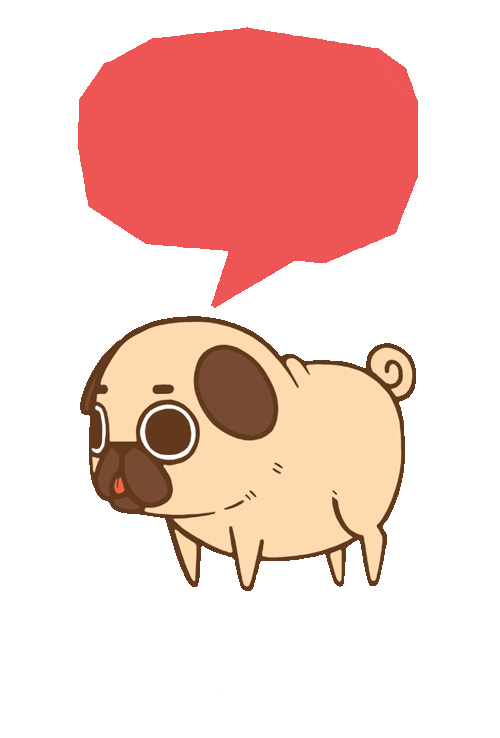
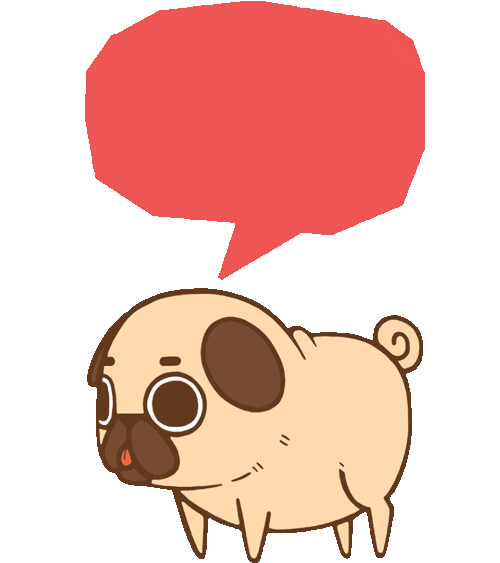
Portfolio Update: Landing Page Redesign w/animations

diff --git a/css/index.css b/css/index.css
@@ -13,6 +13,7 @@ body {
   background-size: 400px;
   height: 969px;
   padding: 0;
+  overflow: hidden;
 }
 
 .noselect {
@@ -52,6 +53,28 @@ input, label {
   padding: 100px 0 20px 0;
 }
 
+/* ANIMATION ANIMATION ANIMATION */
+/* ANIMATION ANIMATION ANIMATION */
+/* ANIMATION ANIMATION ANIMATION */
+
+@keyframes txtFadein {
+  from {
+    opacity: 0;
+  }
+  to {
+    opacity: 1;
+  }
+}
+
+@keyframes backgroundFadein {
+  from {
+    opacity: 0;
+  }
+  to {
+    opacity: 0.6;
+  }
+}
+
 /* NAVIGATION */
 /* NAVIGATION */
 /* NAVIGATION */
@@ -69,6 +92,13 @@ input, label {
   background: #FFFFFF;
   position: fixed;
   z-index: 1030;
+  display: ;
+  opacity: 0;
+  transition: opacity 1s;
+}
+
+#nav.fadein {
+  opacity: 1;
 }
 
 #brand {
@@ -135,63 +165,66 @@ input, label {
   display: flex;
   margin: 0;
   padding: 0;
+  overflow: hidden;
+  opacity: 1;
+  transition: opacity 0.3s;
+}
+
+#landingPage.fade {
+  opacity: 0;
 }
 
 #landingPageBackground {
   width: 100%;
   height: 100%;
-  display: block;
   position: absolute;
-  background: url("../images/landing page/background2.jpg");
+  background: url("../images/landing page/bg8.jpg");
   background-size: cover;
-  background-position: 400px -10%;
-  opacity: 0.6;
+  background-position: center;
+  opacity: 0.9;
 }
 
 #landingPageHeaderGroup {
-  position: static;
   margin: auto;
-  width: 600px;
-  height: 600px;
+  height: 40rem;
+  animation: txtFadein 1s;
+  text-shadow: -3px 3px 5px rgba(0,0,0,0.2);
+  color: snow;
+  opacity: 0.7;
+  text-align: center;
 }
 
-#michaelJap {
-  font-size: 5rem;
-  color: #262730;
-  position: absolute;
-  top: 263px;
-  left: 18.5%;
-  font-weight: 700;
-}
-
-#michaelEng {
+#michaelJap, #chambersJap {
   font-size: 7rem;
-  color: #262730;
+  font-weight: 700;
+  line-height: 7rem;
+}
+
+#michaelEng, #chambersEng {
+  font-size: 9rem;
   font-family: "EB Garamond";
   font-weight: 500;
-  position: absolute;
-  top: 325px;
-  left: 24.5%;
+  line-height: 6rem;
 }
 
-#chambersEng {
-  font-size: 7rem;
-  color: #262730;
-  font-family: "EB Garamond";
-  font-weight: 500;
+#landingPage button {
   position: absolute;
-  top: 425px;
-  left: 26.5%;
-}
-
-#chambersJap {
-  font-size: 5rem;
-  color: #262730;
-  font-weight: 300;
-  position: absolute;
-  top: 540px;
-  left: 21%;
-  font-weight: 700;
+  bottom: 2%;
+  right: 0;
+  left: 0;
+  width: 150px;
+  height: 50px;
+  opacity: 0.7;
+  z-index: 2;
+  background: #333;
+  border: solid;
+  border-radius: 0.5rem;
+  color: snow;
+  font-size: 25px;
+  display: flex;
+  justify-content: center;
+  box-shadow: 0 1px 2px rgba(0,0,0,0.5);
+  text-shadow: 0 1px 2px rgba(0,0,0,0.5);
 }
 
 /* ABOUT ME */
@@ -199,10 +232,15 @@ input, label {
 /* ABOUT ME */
 
 #aboutMeSection {
-  height: 940px;
+  height: 970px;
   position: relative;
   background-size: cover;
   background-position: 275px -100px;
+  opacity: 0;
+  transition: opacity 1s;
+}
+
+#aboutMeSection.fadein {
   opacity: 1;
 }
 
@@ -249,9 +287,10 @@ input, label {
 
 #aboutPug {
   position: absolute;
-  top: 65.2%;
+  bottom: 0;
   left: 3%;
-  z-index: -2;
+  z-index: -1;
+  opacity: 0.7;
 }
 
 #aboutPug img {
@@ -558,7 +597,7 @@ input, label {
 
 #contactPug2 {
   position: absolute;
-  top: 86.6%;
+  bottom: 0;
   left: 5%;
   opacity: 0.7;
   box-shadow: 0 0 0 rgba(0,0,0,);
@@ -597,54 +636,17 @@ input, label {
 /* LARGE LARGE LARGE LARGE LARGE LARGE LARGE */
 
 @media (max-width: 1200px) {
-  #landingPageBackground {
-    background: url("../images/landing page/background2.jpg");
-    background-size: 2750px;
-    background-position: 49.1%;
-    opacity: 0.6;
-    height: 100vh;
-    display: flex;
-    margin: 0;
-    padding: 0;
+
+  #michaelJap, #chambersJap {
+    font-size: 7rem;
+    font-weight: 300;
+    line-height: 6rem;
   }
 
-  #michaelJap {
+  #michaelEng, #chambersEng {
+    font-size: 8rem;
     font-weight: 300;
-    position: relative;
-    text-align: center;
-    top: 60px;
-    left: 0;
-    right: 0;
-  }
-
-  #michaelEng {
-    font-size: 5.5rem;
-    font-weight: 300;
-    position: relative;
-    text-align: center;
-    top: 30px;
-    left: 0;
-    right: 0;
-  }
-
-  #chambersEng {
-    font-size: 5.5rem;
-    font-weight: 300;
-    position: relative;
-    text-align: center;
-    top: -7px;
-    left: 0;
-    right: 0;
-  }
-
-  #chambersJap {
-    font-size: 4.5rem;
-    font-weight: 300;
-    position: relative;
-    text-align: center;
-    top: -36px;
-    left: 0;
-    right: 0;
+    line-height: 6rem;
   }
 
   #aboutMeContent {

diff --git a/js/index.js b/js/index.js
@@ -1,6 +1,9 @@
 var navLinks = document.getElementsByClassName("navLink");
 var navLinkList = document.getElementById("navLinkList");
 var navIcons = document.getElementById("navLinkList").getElementsByClassName("navIconItem");
+var btnStart = document.getElementById("btnGetStarted");
+var landingPage = document.getElementById("landingPage");
+var nav = document.getElementById("nav");
 var navLinkVisability = false;
 var viewportWidth = window.innerWidth || document.documentElement.clientWidth;
 var timeout = true;
@@ -67,3 +70,17 @@ window.addEventListener('resize', function() {
     setIdVisability(navLinkList, "block");
   }
 }, false);
+
+btnStart.onclick = function() {
+  document.body.style.overflow = "visible";
+  landingPage.classList.toggle("fade");
+  setTimeout(function(){
+    landingPage.style.display = "none";
+  }, 200);
+  document.getElementById("aboutMeSection").classList.toggle("fadein");
+  nav.classList.toggle("fadein");
+};
+
+window.onbeforeunload = function() {
+  window.scrollTo(0,0);
+}

diff --git a/index.html b/index.html
@@ -52,6 +52,7 @@
         <h1 id="chambersEng" class="noselect">CHAMBERS</h1>
         <h1 id="chambersJap" class="noselect">チェンバース</h1>
       </div>
+      <button id="btnGetStarted">Get Started</button>
     </section>
 
 <!-- ABOUT ME -->
